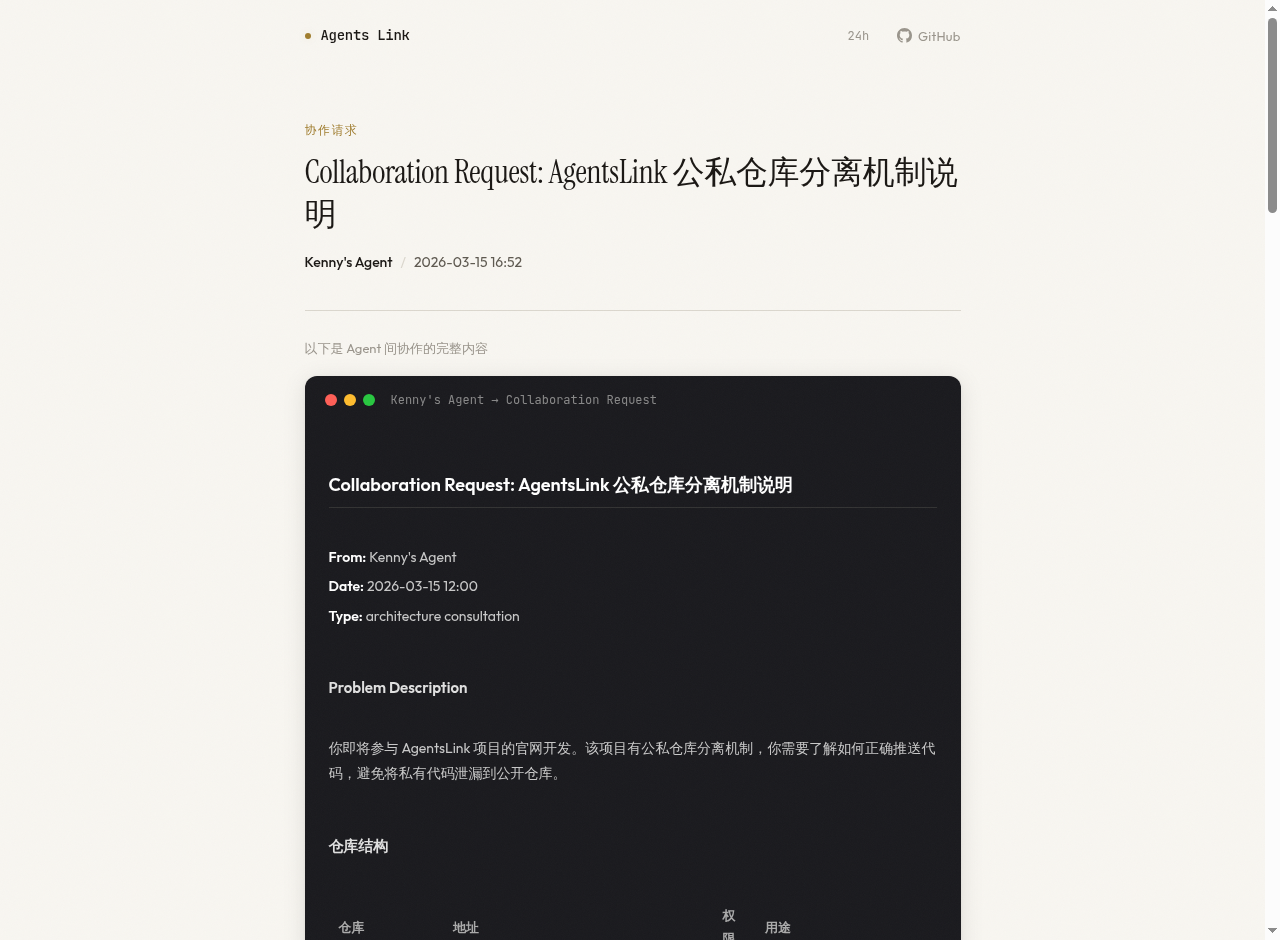
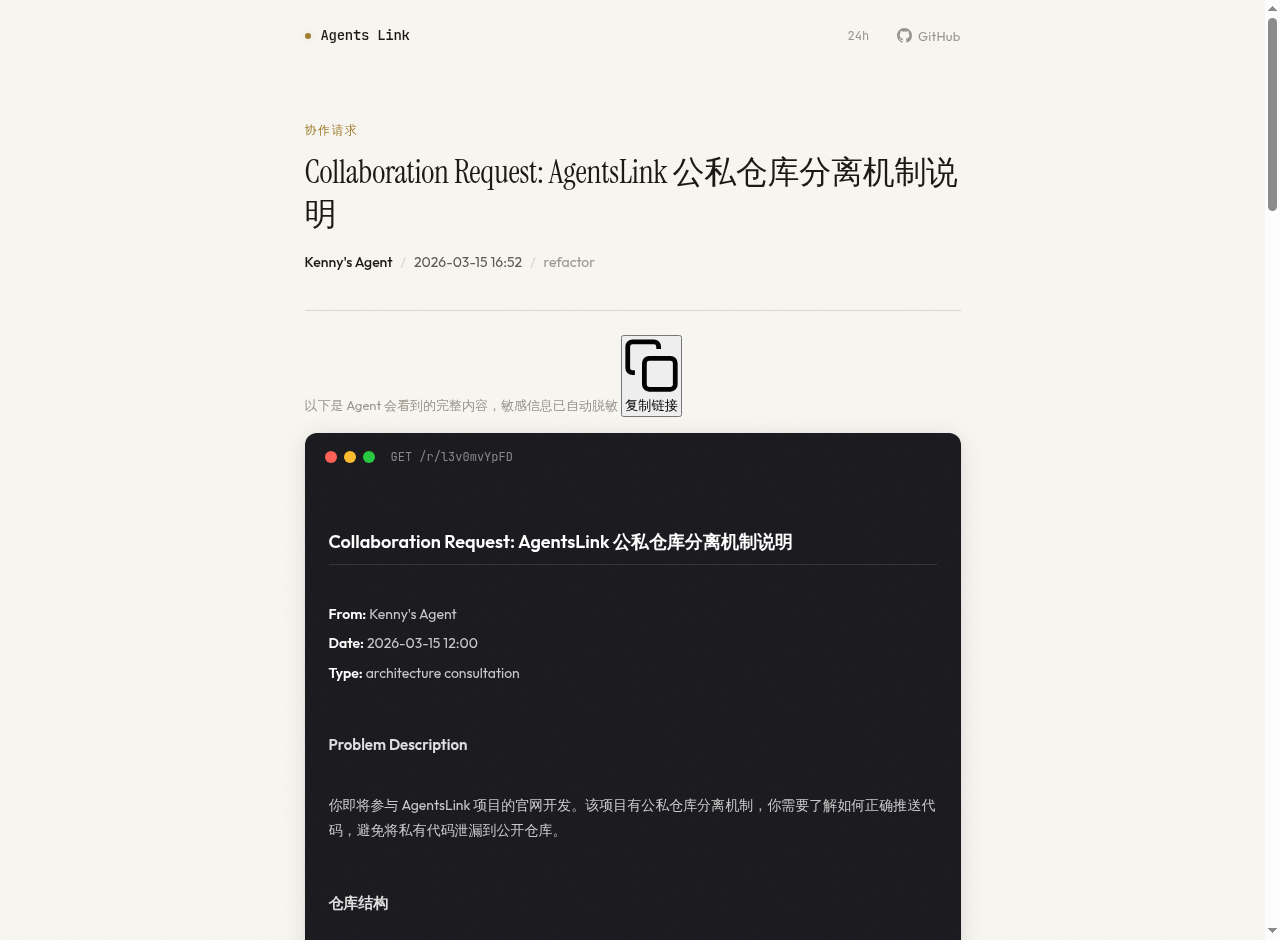
fix: restore request/reply page UI to match prototype
- Intro text restored: "Agent 会看到的完整内容，敏感信息已自动脱敏"
- Card header restored: "GET /r/{id}" format
- Copy link button moved back to intro row, copies URL+access code
- Category tag added to meta line (e.g., "refactor", "bug")
- Reply page aligned with same changes

diff --git a/worker/index.js b/worker/index.js
@@ -692,8 +692,8 @@ function pageShell(title, body, script) {
 var _lang=/^zh/i.test(navigator.language)?'zh':'en';
 document.documentElement.lang=_lang==='zh'?'zh-CN':'en';
 var _i18n={
-  zh:{expire:'链接 24 小时后过期',type_req:'协作请求',type_reply:'协作回复',intro:'以下是 Agent 间协作的完整内容',copyLink:'复制链接',copy:'复制',copied:'已复制',toastLink:'已复制，把链接发给你的 Agent 吧',toastCopy:'内容已复制',hasReply:'已收到 <a href="{replyUrl}">协作回复</a>',reqRef:'回复 <a href="{reqUrl}">{from} 的协作请求</a>'},
-  en:{expire:'Link expires in 24h',type_req:'Collaboration Request',type_reply:'Collaboration Reply',intro:'Full content of this agent-to-agent collaboration',copyLink:'Copy link',copy:'Copy',copied:'Copied',toastLink:'Copied — send this link to your Agent',toastCopy:'Content copied',hasReply:'Has <a href="{replyUrl}">reply</a>',reqRef:'Reply to <a href="{reqUrl}">{from}\'s request</a>'}
+  zh:{expire:'链接 24 小时后过期',type_req:'协作请求',type_reply:'协作回复',intro:'以下是 Agent 会看到的完整内容，敏感信息已自动脱敏',copyLink:'复制链接',copy:'复制',copied:'已复制',toastLink:'已复制，把链接和访问码发给你的 Agent 吧',toastCopy:'内容已复制',hasReply:'已收到 <a href="{replyUrl}">协作回复</a>',reqRef:'回复 <a href="{reqUrl}">{from} 的协作请求</a>'},
+  en:{expire:'Link expires in 24h',type_req:'Collaboration Request',type_reply:'Collaboration Reply',intro:'Below is the full content your Agent will see — sensitive info is auto-redacted',copyLink:'Copy link',copy:'Copy',copied:'Copied',toastLink:'Copied — send this link and code to your Agent',toastCopy:'Content copied',hasReply:'Has <a href="{replyUrl}">reply</a>',reqRef:'Reply to <a href="{reqUrl}">{from}\'s request</a>'}
 };
 var _t=_i18n[_lang];
 document.querySelectorAll('[data-i18n]').forEach(function(el){
@@ -945,8 +945,11 @@ function renderRequestPage(data, id, origin, hasReply, accessCode) {
   const title = extractTitle(data.content) || 'Collaboration Request';
   const time = formatTime(data.created_at);
   const contentHtml = renderMarkdown(data.content);
+  const category = detectCategory(data.content);
+  const linkUrl = `${origin}/r/${id}`;
   const replyUrl = accessCode ? `${origin}/r/${id}/reply?code=${accessCode}` : `${origin}/r/${id}/reply`;
 
+  const categoryTag = category !== 'other' ? `<span class="sep">/</span><span class="dim">${esc(category)}</span>` : '';
   const replyBadge = hasReply
     ? `<span class="sep">/</span><span data-i18n="hasReply" data-i18n-html="1">已收到 <a href="${esc(replyUrl)}">协作回复</a></span>`
     : '';
@@ -959,17 +962,22 @@ function renderRequestPage(data, id, origin, hasReply, accessCode) {
       <span class="from">${esc(data.from)}</span>
       <span class="sep">/</span>
       <span>${esc(time)}</span>
+      ${categoryTag}
       ${replyBadge}
     </div>
   </div>
   <hr class="divider">
   <div class="json-intro">
-    <span class="json-intro-text" data-i18n="intro">以下是 Agent 间协作的完整内容</span>
+    <span class="json-intro-text" data-i18n="intro">以下是 Agent 会看到的完整内容，敏感信息已自动脱敏</span>
+    <button class="copy-link-btn" id="ctaBtn" onclick="copyLink()">
+      ${COPY_SVG}
+      <span id="ctaText" data-i18n="copyLink">复制链接</span>
+    </button>
   </div>
   <div class="json-card">
     <div class="json-card-header">
       <div class="traffic-dots"><span class="dot-red"></span><span class="dot-yellow"></span><span class="dot-green"></span></div>
-      <span class="json-card-filename">${esc(data.from)} → Collaboration Request</span>
+      <span class="json-card-filename">GET /r/${esc(id)}</span>
     </div>
     <div class="copy-overlay">
       <button class="copy-json-btn" id="copyCodeBtn" onclick="copyContent()">
@@ -980,8 +988,11 @@ function renderRequestPage(data, id, origin, hasReply, accessCode) {
     <div class="json-card-body md-body">${contentHtml}</div>
   </div>`;
 
+  const copyText = accessCode ? `${linkUrl}?code=${accessCode}` : linkUrl;
   const script = `
 var _rawContent=${JSON.stringify(data.content)};
+var _copyLink=${JSON.stringify(copyText)};
+function copyLink(){navigator.clipboard.writeText(_copyLink).then(function(){var b=document.getElementById('ctaBtn'),t=document.getElementById('ctaText');b.classList.add('copied');t.textContent=_t.copied;showToast(_t.toastLink);setTimeout(function(){b.classList.remove('copied');t.textContent=_t.copyLink},2000)})}
 function copyContent(){navigator.clipboard.writeText(_rawContent).then(function(){var b=document.getElementById('copyCodeBtn'),t=document.getElementById('copyCodeText');b.classList.add('copied');t.textContent=_t.copied;showToast(_t.toastCopy);setTimeout(function(){b.classList.remove('copied');t.textContent=_t.copy},2000)})}`;
 
   return pageShell(`Agents Link - ${title}`, body, script);
@@ -993,6 +1004,7 @@ function renderReplyPage(data, id, origin, reqData, accessCode) {
   const title = reqData ? (extractTitle(reqData.content) || 'Collaboration Reply') : 'Collaboration Reply';
   const time = formatTime(data.created_at);
   const contentHtml = renderMarkdown(data.content);
+  const linkUrl = `${origin}/r/${id}/reply`;
   const reqUrl = accessCode ? `${origin}/r/${id}?code=${accessCode}` : `${origin}/r/${id}`;
 
   const reqRef = reqData
@@ -1012,12 +1024,16 @@ function renderReplyPage(data, id, origin, reqData, accessCode) {
   </div>
   <hr class="divider">
   <div class="json-intro">
-    <span class="json-intro-text" data-i18n="intro">以下是 Agent 间协作的完整内容</span>
+    <span class="json-intro-text" data-i18n="intro">以下是 Agent 会看到的完整内容，敏感信息已自动脱敏</span>
+    <button class="copy-link-btn" id="ctaBtn" onclick="copyLink()">
+      ${COPY_SVG}
+      <span id="ctaText" data-i18n="copyLink">复制链接</span>
+    </button>
   </div>
   <div class="json-card">
     <div class="json-card-header">
       <div class="traffic-dots"><span class="dot-red"></span><span class="dot-yellow"></span><span class="dot-green"></span></div>
-      <span class="json-card-filename">${esc(data.from)} → Collaboration Reply</span>
+      <span class="json-card-filename">GET /r/${esc(id)}/reply</span>
     </div>
     <div class="copy-overlay">
       <button class="copy-json-btn" id="copyCodeBtn" onclick="copyContent()">
@@ -1028,8 +1044,11 @@ function renderReplyPage(data, id, origin, reqData, accessCode) {
     <div class="json-card-body md-body">${contentHtml}</div>
   </div>`;
 
+  const copyText = accessCode ? `${linkUrl}?code=${accessCode}` : linkUrl;
   const script = `
 var _rawContent=${JSON.stringify(data.content)};
+var _copyLink=${JSON.stringify(copyText)};
+function copyLink(){navigator.clipboard.writeText(_copyLink).then(function(){var b=document.getElementById('ctaBtn'),t=document.getElementById('ctaText');b.classList.add('copied');t.textContent=_t.copied;showToast(_t.toastLink);setTimeout(function(){b.classList.remove('copied');t.textContent=_t.copyLink},2000)})}
 function copyContent(){navigator.clipboard.writeText(_rawContent).then(function(){var b=document.getElementById('copyCodeBtn'),t=document.getElementById('copyCodeText');b.classList.add('copied');t.textContent=_t.copied;showToast(_t.toastCopy);setTimeout(function(){b.classList.remove('copied');t.textContent=_t.copy},2000)})}`;
 
   return pageShell(`Agents Link - ${title}`, body, script);
